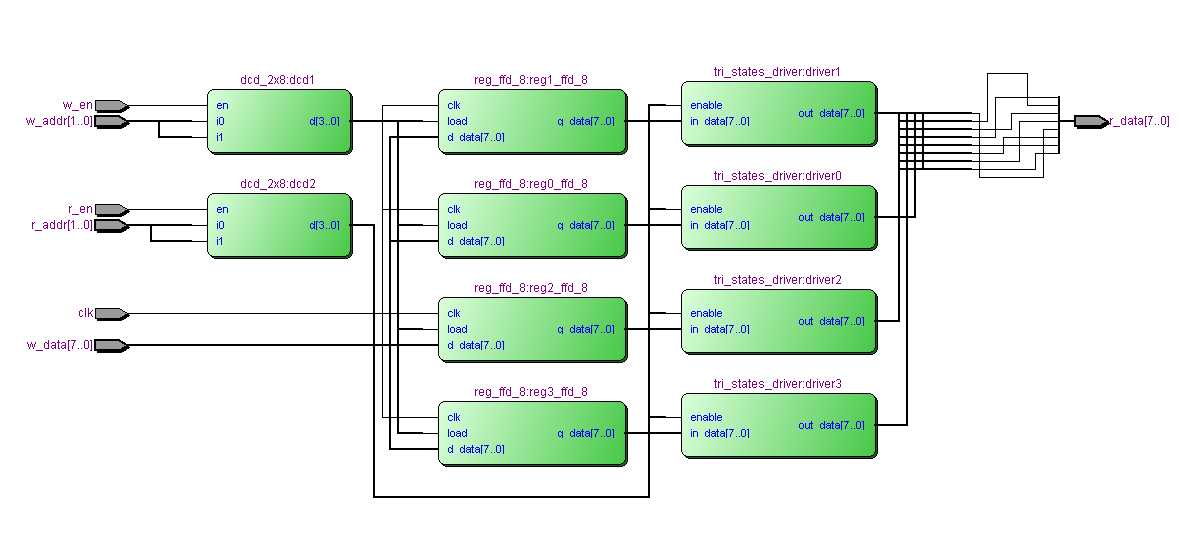
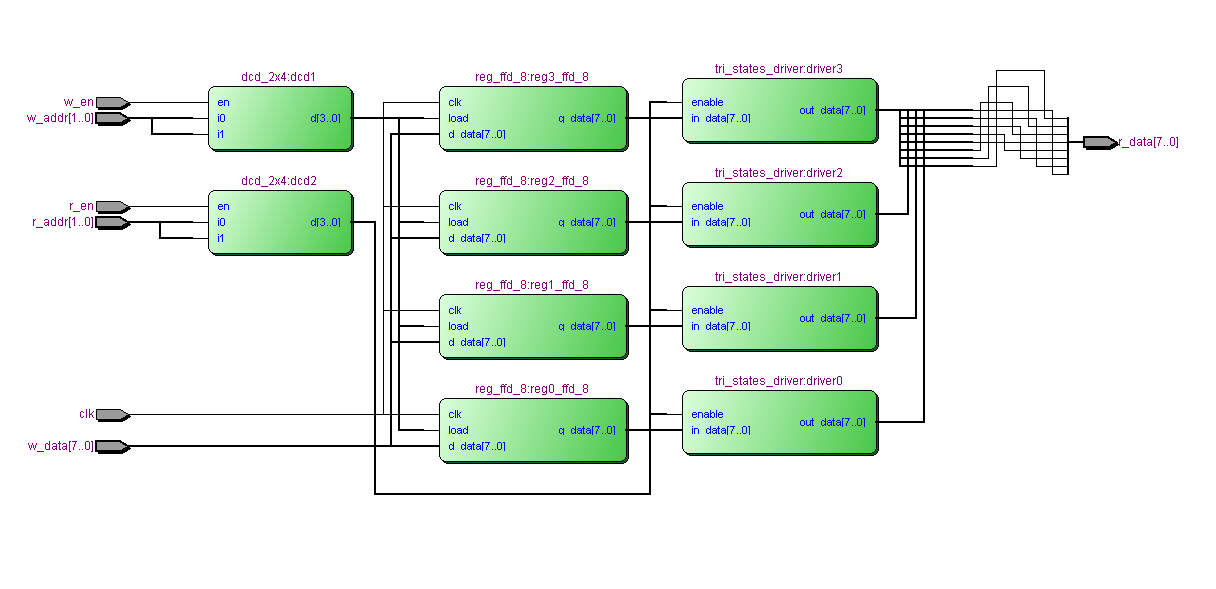
editado: README.md

Changed region(s): [[0.0305, 0.0938, 0.9763, 0.875], [0.3356, 0.9062, 0.5492, 0.9375], [0.061, 0.5625, 0.122, 0.5938]]

diff --git a/lab4/banco_de_registradores/README.md b/lab4/banco_de_registradores/README.md
@@ -24,7 +24,7 @@ END ENTITY reg_file_4x8;
 ARCHITECTURE RTL OF reg_file_4x8 IS
 
 	-- Fios
-	SIGNAL dcd_2x8_wires : STD_LOGIC_VECTOR(3 DOWNTO 0);
+	SIGNAL dcd_2x4_wires : STD_LOGIC_VECTOR(3 DOWNTO 0);
 	SIGNAL reg0_ffd_8_wires : STD_LOGIC_VECTOR(7 DOWNTO 0);
 	SIGNAL reg1_ffd_8_wires : STD_LOGIC_VECTOR(7 DOWNTO 0);
 	SIGNAL reg2_ffd_8_wires : STD_LOGIC_VECTOR(7 DOWNTO 0);
@@ -33,12 +33,12 @@ ARCHITECTURE RTL OF reg_file_4x8 IS
 
 	-- Componentes
 	-- 1) Decodificador
-	COMPONENT dcd_2x8 IS
+	COMPONENT dcd_2x4 IS
 		PORT(
 			i0, i1, en : IN STD_LOGIC;
 			d : OUT STD_LOGIC_VECTOR(3 DOWNTO 0)
 		);
-	END COMPONENT dcd_2x8;
+	END COMPONENT dcd_2x4;
 
 	-- 2) Registrador ffd
 	COMPONENT reg_ffd_8 IS
@@ -63,19 +63,19 @@ ARCHITECTURE RTL OF reg_file_4x8 IS
 BEGIN
 
 	-- Decodificador 1
-	dcd1: dcd_2x8
+	dcd1: dcd_2x4
 		PORT MAP(
 			i0 => w_addr(0),
 			i1 => w_addr(1),
 			en => w_en,
-			d => dcd_2x8_wires
+			d => dcd_2x4_wires
 	);
 
 	-- Registradores
 	reg0_ffd_8 : reg_ffd_8
 		PORT MAP(
 			d_data => w_data,
-			load => dcd_2x8_wires(0),
+			load => dcd_2x4_wires(0),
 			clk => clk,
 			q_data => reg0_ffd_8_wires
 	);
@@ -83,7 +83,7 @@ BEGIN
 	reg1_ffd_8 : reg_ffd_8
 		PORT MAP(
 			d_data => w_data,
-			load => dcd_2x8_wires(1),
+			load => dcd_2x4_wires(1),
 			clk => clk,
 			q_data => reg1_ffd_8_wires
 	);
@@ -91,7 +91,7 @@ BEGIN
 	reg2_ffd_8 : reg_ffd_8
 		PORT MAP(
 			d_data => w_data,
-			load => dcd_2x8_wires(2),
+			load => dcd_2x4_wires(2),
 			clk => clk,
 			q_data => reg2_ffd_8_wires
 	);
@@ -99,13 +99,13 @@ BEGIN
 	reg3_ffd_8 : reg_ffd_8
 		PORT MAP(
 			d_data => w_data,
-			load => dcd_2x8_wires(3),
+			load => dcd_2x4_wires(3),
 			clk => clk,
 			q_data => reg3_ffd_8_wires
 	);
 
 	-- Decodificador 2
-	dcd2: dcd_2x8
+	dcd2: dcd_2x4
 		PORT MAP(
 			i0 => r_addr(0),
 			i1 => r_addr(1),
